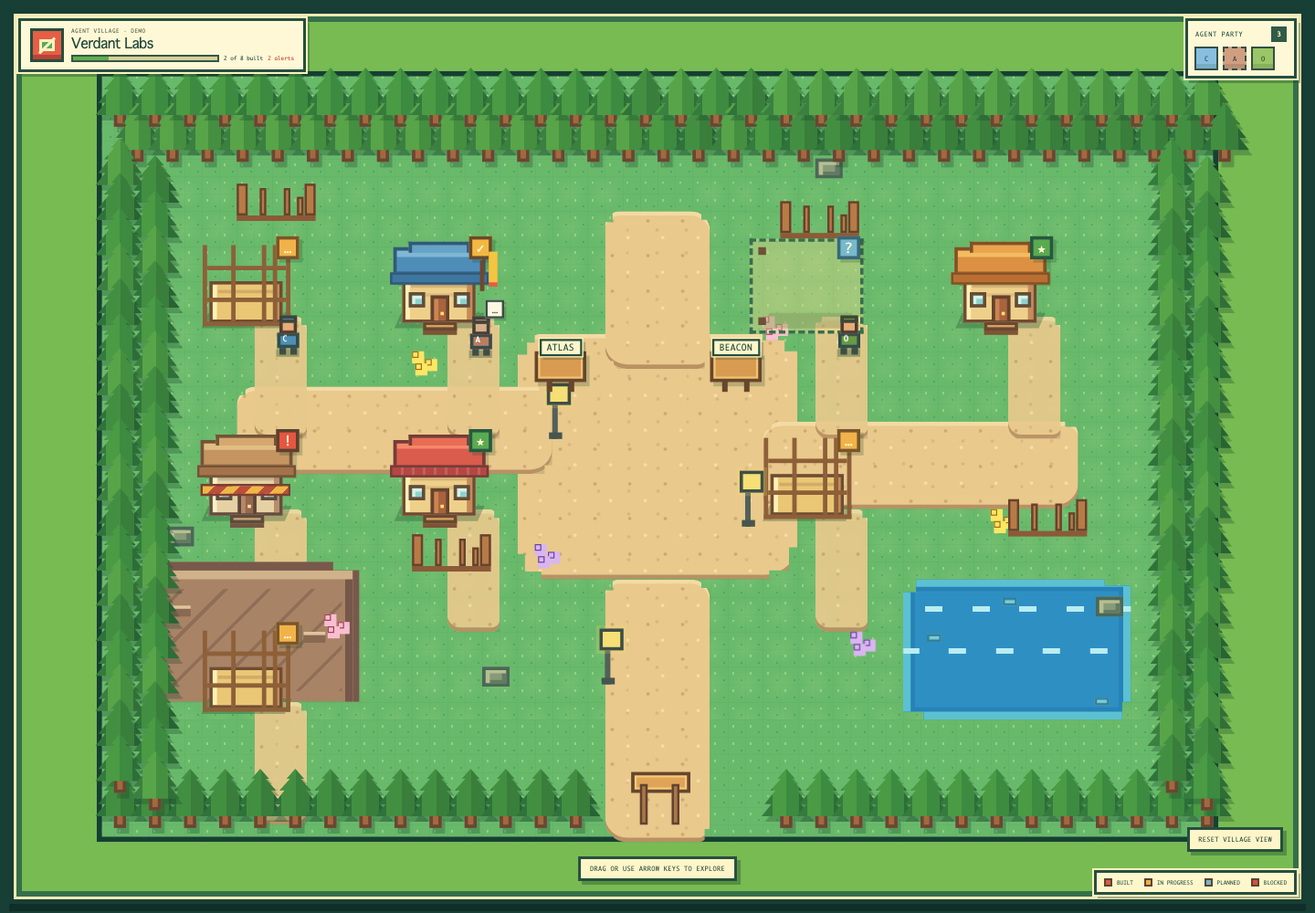
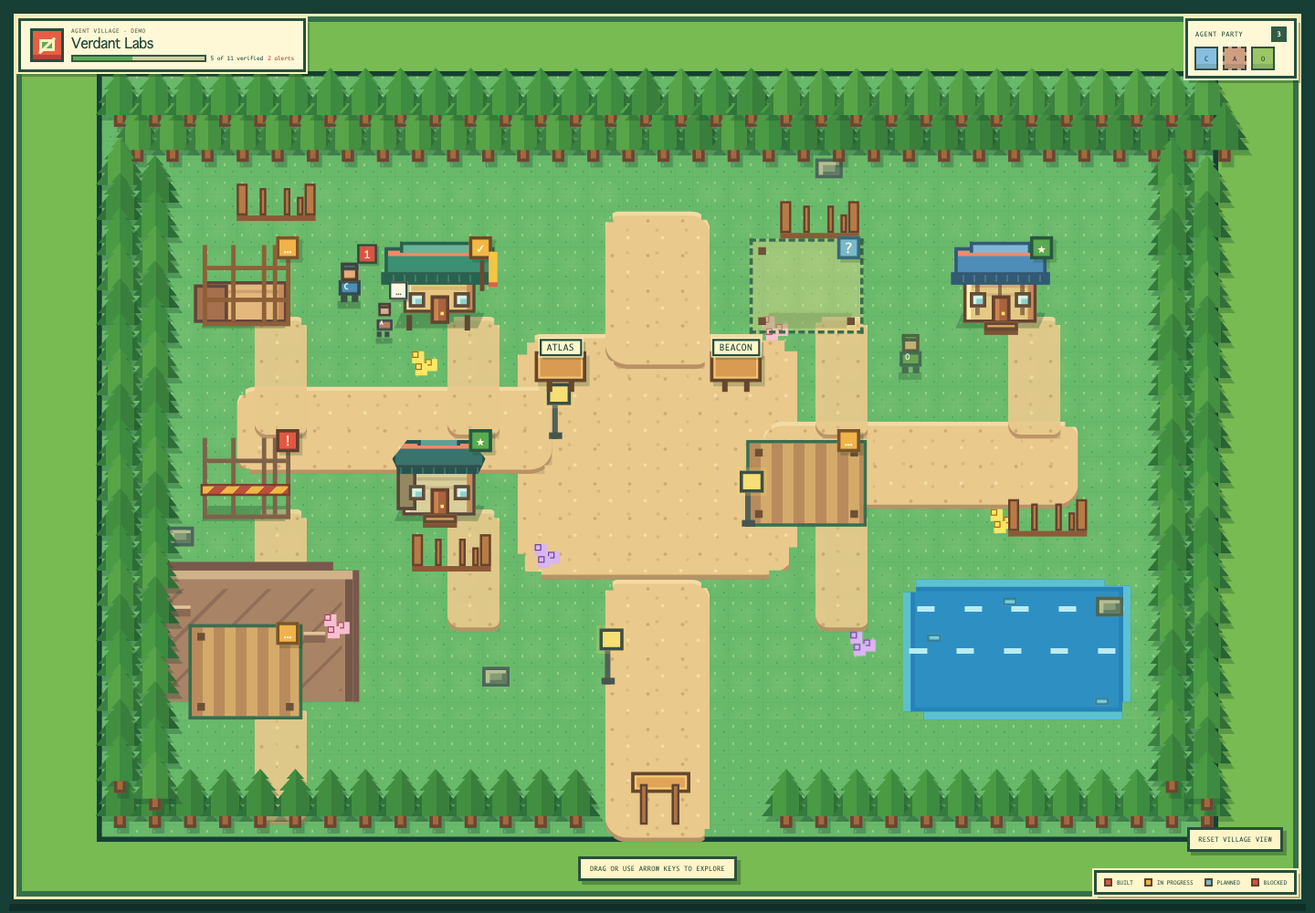
feat(village): add living construction and agent analytics
🤖 Generated with [Claude Code](https://claude.com/claude-code)

diff --git a/src/client/styles/scene.css b/src/client/styles/scene.css
@@ -76,9 +76,18 @@
 .pixel-building[data-roof-shape="stepped"] .pixel-building__roof::before{left:19px;right:19px;top:-12px;height:11px}
 .pixel-building[data-roof-shape="hipped"] .pixel-building__roof{left:14px;width:85px}.pixel-building[data-roof-shape="hipped"] .pixel-building__roof::before{left:20px;right:20px}
 .pixel-building[data-roof-shape="stilt"] .pixel-building__wall{top:37px;height:40px}.pixel-building[data-roof-shape="stilt"] .pixel-building__porch{top:76px}.pixel-building[data-roof-shape="stilt"] .pixel-building__body::after{content:"";position:absolute;left:27px;right:27px;top:79px;height:14px;border-left:5px solid var(--building-trim);border-right:5px solid var(--building-trim)}
+.pixel-building[data-family="timber_north"] .pixel-building__wall::after{content:"";position:absolute;inset:4px 8px;border-left:4px solid var(--building-trim);border-right:4px solid var(--building-trim);background:linear-gradient(90deg,transparent 46%,var(--building-trim) 46% 54%,transparent 54%);opacity:.65}
+.pixel-building[data-family="courtyard_sun"] .pixel-building__wall{left:12px;width:88px;height:40px}.pixel-building[data-family="courtyard_sun"] .pixel-building__wall::after{content:"";position:absolute;left:21px;top:13px;width:37px;height:21px;border:4px solid var(--building-trim);background:#76bbb1}.pixel-building[data-family="courtyard_sun"] .pixel-building__plot{inset:17px 1px 4px}
+.pixel-building[data-family="townhouse_brick"] .pixel-building__wall{left:29px;top:31px;width:56px;height:60px;background-image:repeating-linear-gradient(0deg,transparent 0 8px,rgba(98,52,45,.22) 8px 10px)}.pixel-building[data-family="townhouse_brick"] .pixel-building__roof{left:23px;top:8px;width:68px}.pixel-building[data-family="townhouse_brick"] .pixel-building__plot{inset:7px 22px 4px}
+.pixel-building[data-family="earth_courtyard"] .pixel-building__wall{left:13px;width:86px}.pixel-building[data-family="earth_courtyard"] .pixel-building__roof{left:11px;width:91px}.pixel-building[data-family="earth_courtyard"] .pixel-building__wall::after{content:"";position:absolute;right:5px;bottom:4px;width:19px;height:24px;border:4px solid var(--building-trim);border-bottom:0;background:var(--building-wall-light)}
+.pixel-building[data-family="mountain_adobe"] .pixel-building__wall{left:20px;width:74px}.pixel-building[data-family="mountain_adobe"] .pixel-building__wall::after{content:"";position:absolute;left:-14px;bottom:-3px;width:25px;height:29px;border:3px solid var(--building-trim);background:var(--building-wall-dark)}.pixel-building[data-family="mountain_adobe"] .pixel-building__plot{clip-path:polygon(12% 10%,80% 10%,80% 0,100% 0,100% 100%,0 100%,0 30%,12% 30%)}
+.pixel-building[data-family="tropical_stilt"] .pixel-building__roof{left:7px;width:100px}.pixel-building[data-family="tropical_stilt"] .pixel-building__wall{left:24px;width:66px}.pixel-building[data-family="tropical_stilt"] .pixel-building__plot{inset:8px 14px 3px;border-style:dotted}
+.pixel-building[data-family="woodland_tile"] .pixel-building__roof{clip-path:polygon(16% 0,84% 0,100% 55%,92% 100%,8% 100%,0 55%)}.pixel-building[data-family="woodland_tile"] .pixel-building__wall::after{content:"";position:absolute;left:-8px;bottom:2px;width:12px;height:34px;border:3px solid var(--building-trim);background:var(--building-wall-dark)}
+.pixel-building[data-family="civic_modern"] .pixel-building__wall{left:9px;width:96px;height:38px}.pixel-building[data-family="civic_modern"] .pixel-building__roof{left:20px;width:74px}.pixel-building[data-family="civic_modern"] .pixel-building__wall::after{content:"";position:absolute;left:8px;right:8px;top:12px;height:11px;background:repeating-linear-gradient(90deg,#8fd1d0 0 10px,var(--building-trim) 10px 14px)}
 
 .pixel-worker-plot{position:absolute;z-index:12;width:28px;height:38px;pointer-events:none}.pixel-worker{position:relative;display:block;width:28px;height:38px;animation:worker-idle 1.2s steps(2) infinite;image-rendering:pixelated}.pixel-worker__shadow{position:absolute;left:4px;bottom:0;width:21px;height:7px;background:rgba(27,73,41,.35)}.pixel-worker__head{position:absolute;z-index:3;left:7px;top:2px;width:16px;height:15px;border:3px solid #4f3d32;background:#e7ad76}.pixel-worker__head b{position:absolute;left:-3px;top:-5px;width:16px;height:7px;border:3px solid #3e4439;background:#5b82a5}.pixel-worker__body{position:absolute;z-index:2;left:5px;top:16px;width:20px;height:14px;border:3px solid #314e4a;background:#4f8fb6}.pixel-worker__legs{position:absolute;z-index:1;left:7px;top:29px;width:6px;height:7px;background:#3c4e45;box-shadow:10px 0 #3c4e45}.pixel-worker__badge{position:absolute;z-index:4;left:10px;top:18px;color:#fff;font:900 7px/8px Monaco,monospace}.pixel-worker__bubble{position:absolute;z-index:6;left:19px;top:-15px;padding:2px 4px;border:2px solid #315044;color:#315044;background:#fff8d5;box-shadow:2px 2px rgba(32,70,44,.25);font:900 9px/1 Monaco,monospace}.pixel-worker--claude .pixel-worker__head b,.pixel-worker--claude .pixel-worker__body{background:#d3784d}.pixel-worker--openclaw .pixel-worker__head b,.pixel-worker--openclaw .pixel-worker__body{background:#6a9a45}.pixel-worker--other .pixel-worker__head b,.pixel-worker--other .pixel-worker__body{background:#a477a7}.pixel-worker--waiting{animation:none;filter:saturate(.65)}.pixel-worker--idle,.pixel-worker--unknown{animation:none;opacity:.7}@keyframes worker-idle{50%{transform:translateY(-2px)}}
-.pixel-worker-plot{pointer-events:auto}.pixel-worker{padding:0;border:0;background:transparent;cursor:pointer}.pixel-worker:focus-visible{outline:3px solid var(--focus);outline-offset:3px}.pixel-worker--helper{transform:scale(.72);transform-origin:center bottom;animation:helper-idle 1.2s steps(2) infinite}.pixel-worker__count{position:absolute;z-index:9;left:18px;top:-17px;display:grid;place-items:center;min-width:18px;height:18px;border:2px solid #274c3e;color:#fff7cb;background:#d95443;box-shadow:2px 2px rgba(25,61,39,.28);font:900 9px/1 Monaco,monospace}.drawer-data-note{margin:0;padding:11px;border:2px dashed #9d9064;color:#68715c;font:800 9px/1.45 Monaco,monospace}@keyframes helper-idle{50%{transform:scale(.72) translateY(-2px)}}
+.pixel-worker-plot{pointer-events:auto}.pixel-worker{padding:0;border:0;background:transparent;cursor:pointer}.pixel-worker:focus-visible{outline:3px solid var(--focus);outline-offset:3px}.pixel-worker__count{position:absolute;z-index:9;top:-17px;display:grid;place-items:center;min-width:18px;height:18px;border:2px solid #274c3e;color:#fff7cb;background:#d95443;box-shadow:2px 2px rgba(25,61,39,.28);font:900 9px/1 Monaco,monospace}.drawer-data-note{margin:0;padding:11px;border:2px dashed #9d9064;color:#68715c;font:800 9px/1.45 Monaco,monospace}
+.pixel-worker-plot,.pixel-worker{width:44px;height:44px}.pixel-worker__shadow{left:12px;bottom:2px}.pixel-worker__head{left:15px}.pixel-worker__body{left:13px}.pixel-worker__legs{left:15px}.pixel-worker__badge{left:18px}.pixel-worker__bubble{left:27px}.pixel-worker__count{left:30px}.pixel-worker--helper{transform:none;animation:helper-idle 1.2s steps(2) infinite}.pixel-worker--helper .pixel-worker__shadow,.pixel-worker--helper .pixel-worker__head,.pixel-worker--helper .pixel-worker__body,.pixel-worker--helper .pixel-worker__legs,.pixel-worker--helper .pixel-worker__badge{transform:scale(.72);transform-origin:center bottom}@keyframes helper-idle{50%{transform:translateY(-2px)}}
 
 .map-reset,.map-hint { position:absolute;z-index:15;border:3px solid #264f3e;color:#244b3d;background:#fff5c8;box-shadow:4px 4px 0 rgba(24,65,39,.36);font:900 9px/1 Monaco,monospace;letter-spacing:.04em;text-transform:uppercase; }
 .map-reset { right:25px;bottom:25px;padding:9px 11px;cursor:pointer; }.map-reset:hover{background:#ffdf69}.map-reset:focus-visible{outline:4px solid var(--focus);outline-offset:3px}.map-hint{left:50%;bottom:25px;padding:7px 10px;transform:translateX(-50%);pointer-events:none}

diff --git a/src/server/activity/codexProvider.ts b/src/server/activity/codexProvider.ts
@@ -9,6 +9,8 @@ export type CodexThreadStatus =
   | { type: 'active'; activeFlags: string[] }
   | { type: 'idle' | 'notLoaded' | 'systemError' };
 
+export type CodexThreadSource = string | Record<string, unknown>;
+
 export interface CodexThreadRecord {
   id: string;
   cwd: string;
@@ -16,7 +18,7 @@ export interface CodexThreadRecord {
   preview: string;
   updatedAt: number;
   status: CodexThreadStatus;
-  source?: string;
+  source?: CodexThreadSource;
 }
 
 export interface AppServerTransport {
@@ -35,7 +37,7 @@ const threadSchema = z.object({
     z.object({ type: z.literal('active'), activeFlags: z.array(z.string()) }),
     z.object({ type: z.enum(['idle', 'notLoaded', 'systemError']) }),
   ]),
-  source: z.string().optional(),
+  source: z.union([z.string(), z.record(z.unknown())]).optional(),
 });
 const threadListSchema = z.object({ data: z.array(threadSchema) });
 
@@ -159,10 +161,31 @@ function stateFor(status: CodexThreadStatus, updatedAt: Date, now: Date): Worker
   return 'unknown';
 }
 
-function roleFor(source: string | undefined): Worker['role'] {
+function roleFor(source: CodexThreadSource | undefined): Worker['role'] {
   if (!source) return 'unknown';
-  if (source.startsWith('subAgent')) return 'helper';
+  if (typeof source === 'string') {
+    if (source === 'unknown') return 'unknown';
+    return source.startsWith('subAgent') ? 'helper' : 'lead';
+  }
+  if ('subAgent' in source) return 'helper';
   return 'lead';
+}
+
+function parentThreadIdFor(source: CodexThreadSource | undefined): string | undefined {
+  if (!source || typeof source === 'string' || !('subAgent' in source)) return undefined;
+  const visit = (value: unknown): string | undefined => {
+    if (!value || typeof value !== 'object' || Array.isArray(value)) return undefined;
+    const record = value as Record<string, unknown>;
+    if (typeof record.parent_thread_id === 'string' && record.parent_thread_id.length > 0) {
+      return record.parent_thread_id;
+    }
+    for (const child of Object.values(record)) {
+      const found = visit(child);
+      if (found) return found;
+    }
+    return undefined;
+  };
+  return visit(source.subAgent);
 }
 
 export function mapCodexThreads(
@@ -175,10 +198,12 @@ export function mapCodexThreads(
     const updatedAt = new Date(thread.updatedAt * 1000);
     if (thread.status.type !== 'active' && updatedAt.getTime() < cutoff) return [];
     const rawTitle = thread.name?.trim() || thread.preview.trim() || basename(thread.cwd) || 'Codex thread';
+    const parentThreadId = parentThreadIdFor(thread.source);
     return [{
       id: `codex:${thread.id}`,
       tool: 'codex' as const,
       role: roleFor(thread.source),
+      ...(parentThreadId ? { parentId: `codex:${parentThreadId}` } : {}),
       state: stateFor(thread.status, updatedAt, now),
       project: redactTitle(basename(thread.cwd) || 'unknown').slice(0, 80),
       title: redactTitle(rawTitle).slice(0, 120),

diff --git a/e2e/desktop.spec.ts b/e2e/desktop.spec.ts
@@ -8,12 +8,18 @@ test('desktop pixel village exposes construction, navigation and one-click conte
   await expect(scene).toBeVisible();
   await expect(scene).toHaveAttribute('data-building-count', '8');
   await expect(scene).toHaveAttribute('data-worker-count', '3');
+  await expect(scene).toHaveAttribute('data-lead-count', '1');
+  await expect(scene).toHaveAttribute('data-helper-count', '1');
   await expect(scene).toHaveAttribute('data-world-width', '64');
   await expect(scene.getByTestId('forest-frame')).toBeVisible();
   await expect(scene.getByTestId('pixel-cliff')).toBeVisible();
   await expect(scene.getByTestId('pixel-pond')).toBeVisible();
   await expect(scene.locator('[data-path-kind="square"]')).toHaveCount(1);
   await expect(scene.locator('[data-building-variant]').first()).toHaveAttribute('data-sprite-scale', 'compact');
+  const stages = await scene.locator('[data-stage]').evaluateAll((elements) => [...new Set(elements.map((element) => element.getAttribute('data-stage')))]);
+  expect(new Set(stages)).toEqual(new Set(['lot', 'foundation', 'frame', 'walls', 'roof', 'complete']));
+  const families = await scene.locator('[data-family]').evaluateAll((elements) => [...new Set(elements.map((element) => element.getAttribute('data-family')))]);
+  expect(families).toHaveLength(8);
   await expect(scene.locator('.pixel-zone-sign', { hasText: 'Atlas' })).toBeVisible();
   await expect(scene.locator('.pixel-zone-sign', { hasText: 'Beacon' })).toBeVisible();
   await expect(page.locator('[data-layout="location-plaque"]')).toBeVisible();
@@ -30,4 +36,16 @@ test('desktop pixel village exposes construction, navigation and one-click conte
   await expect(page.getByText('The western footing still needs a soil decision')).toBeVisible();
   await expect(page.getByText('Choose the footing after the soil note arrives')).toBeVisible();
   await expect(page.getByText('openclaw atlas bridge')).toBeVisible();
+  await expect(page.getByText('frame')).toBeVisible();
+  await expect(page.getByText('1 / 3 verified')).toBeVisible();
+  await page.getByRole('button', { name: 'Close details' }).click();
+
+  await scene.getByRole('button', { name: /Codex lead agent/i }).click();
+  await expect(page.getByRole('heading', { name: 'Codex on atlas contours' })).toBeVisible();
+  await expect(page.getByText('Token usage')).toBeVisible();
+  await expect(page.getByText(/Agent Village never estimates it/)).toBeVisible();
+  await page.getByRole('button', { name: 'Close agent details' }).click();
+  await expect(scene.locator('.pixel-worker__count', { hasText: '1' })).toBeVisible();
+  const personTargets = await scene.locator('.pixel-worker').evaluateAll((elements) => elements.map((element) => ({ width: element.getBoundingClientRect().width, height: element.getBoundingClientRect().height })));
+  expect(personTargets.every(({ width, height }) => width >= 44 && height >= 44)).toBe(true);
 });

diff --git a/src/server/truth/demoFixture.test.ts b/src/server/truth/demoFixture.test.ts
@@ -18,15 +18,20 @@ describe('canonical demo fixture', () => {
     const verdicts = await verifyWorkspaceEvidence(loaded.workspace, dirname(fixturePath));
     const derived = deriveWorkspace(loaded.workspace, verdicts);
     const statuses: Record<string, string> = {};
+    const stages: Record<string, string> = {};
 
     for (const project of derived.projects) {
       for (const feature of project.features) {
         for (const task of feature.tasks) {
           statuses[task.id] = task.effectiveStatus;
+          stages[task.id] = task.progress.stage;
           for (const subtask of task.subtasks) statuses[subtask.id] = subtask.effectiveStatus;
         }
       }
-      for (const task of project.tasks) statuses[task.id] = task.effectiveStatus;
+      for (const task of project.tasks) {
+        statuses[task.id] = task.effectiveStatus;
+        stages[task.id] = task.progress.stage;
+      }
     }
 
     expect(statuses).toEqual({
@@ -37,13 +42,18 @@ describe('canonical demo fixture', () => {
       'atlas-observatory-deck': 'verified',
       'atlas-bridge': 'blocked',
       'atlas-bridge-footing': 'planned',
+      'atlas-bridge-pier': 'verified',
+      'atlas-bridge-deck': 'planned',
       'atlas-library': 'verified',
-      'atlas-weather': 'in_progress',
-      'beacon-relay': 'planned',
+      'atlas-weather-site': 'in_progress',
+      'beacon-relay-hub': 'planned',
       'beacon-lens': 'verified',
       'beacon-lens-frame': 'verified',
       'beacon-notes': 'in_progress',
     });
+    expect(new Set(Object.values(stages))).toEqual(new Set([
+      'lot', 'foundation', 'frame', 'walls', 'roof', 'complete',
+    ]));
   });
 
   it('passes the public hygiene gate', () => {

diff --git a/src/client/scene2d/VillageMap2D.test.tsx b/src/client/scene2d/VillageMap2D.test.tsx
@@ -22,7 +22,7 @@ const village: DerivedWorkspace = {
 const activity: ActivitySnapshot = {
   status: 'live', fetchedAt: '2026-09-01T12:00:00.000Z', workers: [
     { id: 'codex', tool: 'codex', role: 'lead', state: 'working', title: 'Build contours', attachedTaskId: 'contours', lastActivityAt: '2026-09-01T12:00:00.000Z' },
-    { id: 'claude', tool: 'claude', role: 'helper', parentId: 'codex', state: 'waiting', title: 'Review map', attachedTaskId: 'contours', lastActivityAt: '2026-09-01T12:00:00.000Z' },
+    { id: 'claude', tool: 'claude', role: 'helper', parentId: 'codex', state: 'waiting', title: 'Review map', attachedTaskId: 'library', lastActivityAt: '2026-09-01T12:00:00.000Z' },
   ],
 };
 
@@ -48,6 +48,14 @@ describe('VillageMap2D', () => {
       expect.objectContaining({ id: 'codex' }),
       expect.any(HTMLButtonElement),
     );
+  });
+
+  it('keeps a helper beside its lead even when its own task mapping differs', () => {
+    render(<VillageMap2D village={village} activity={activity} onSelect={() => undefined} />);
+    const leadPlot = screen.getByRole('button', { name: /Codex lead agent/ }).parentElement as HTMLElement;
+    const helperPlot = screen.getByRole('button', { name: /Claude helper agent/ }).parentElement as HTMLElement;
+    expect(Math.abs(Number.parseInt(helperPlot.style.left) - Number.parseInt(leadPlot.style.left))).toBeLessThanOrEqual(32);
+    expect(Math.abs(Number.parseInt(helperPlot.style.top) - Number.parseInt(leadPlot.style.top))).toBeLessThanOrEqual(32);
   });
 
   it('never invents workers when activity is absent', () => {

diff --git a/src/client/scene2d/PixelWorker.tsx b/src/client/scene2d/PixelWorker.tsx
@@ -18,13 +18,16 @@ interface PixelWorkerProps {
 export function PixelWorker({ worker, helperCount = 0, onSelect }: PixelWorkerProps) {
   const title = worker.title ?? 'Untitled conversation';
   const role = worker.role ?? 'unknown';
+  const helperLabel = helperCount > 0
+    ? `, ${helperCount} ${helperCount === 1 ? 'helper agent' : 'helper agents'}`
+    : '';
   return (
     <button
       type="button"
       className={`pixel-worker pixel-worker--${worker.tool} pixel-worker--${worker.state} pixel-worker--${role}`}
       data-worker-id={worker.id}
       data-sprite-origin="original"
-      aria-label={`${TOOL_LABELS[worker.tool]} ${role} agent, ${worker.state}, ${title}`}
+      aria-label={`${TOOL_LABELS[worker.tool]} ${role} agent, ${worker.state}, ${title}${helperLabel}`}
       onClick={(event) => onSelect?.(worker, event.currentTarget)}
     >
       <i className="pixel-worker__shadow" aria-hidden="true" />
@@ -33,7 +36,7 @@ export function PixelWorker({ worker, helperCount = 0, onSelect }: PixelWorkerPr
       <i className="pixel-worker__legs" aria-hidden="true" />
       <b className="pixel-worker__badge" aria-hidden="true">{TOOL_MARKS[worker.tool]}</b>
       {worker.state === 'waiting' && <em className="pixel-worker__bubble" data-testid="worker-bubble">…</em>}
-      {helperCount > 0 && <span className="pixel-worker__count" aria-label={`${helperCount} helper agents`}>{helperCount}</span>}
+      {helperCount > 0 && <span className="pixel-worker__count" aria-hidden="true">{helperCount}</span>}
     </button>
   );
 }

diff --git a/src/client/scene2d/VillageMap2D.tsx b/src/client/scene2d/VillageMap2D.tsx
@@ -40,6 +40,7 @@ export function VillageMap2D({ village, activity, onSelect, onSelectWorker }: Vi
     }
     return counts;
   }, [workers]);
+  const workersById = useMemo(() => new Map(workers.map((worker) => [worker.id, worker])), [workers]);
 
   const moveCamera = (x: number, y: number) => setCamera({ x: clamp(x, maxX), y: clamp(y, maxY) });
   const onKeyDown = (event: KeyboardEvent<HTMLElement>) => {
@@ -107,7 +108,9 @@ export function VillageMap2D({ village, activity, onSelect, onSelectWorker }: Vi
           </span>;
         })}
         {workers.map((worker, index) => {
-          const placement = worker.attachedTaskId ? placements.get(worker.attachedTaskId) : undefined;
+          const parent = worker.role === 'helper' && worker.parentId ? workersById.get(worker.parentId) : undefined;
+          const attachedTaskId = parent?.attachedTaskId ?? worker.attachedTaskId;
+          const placement = attachedTaskId ? placements.get(attachedTaskId) : undefined;
           const x = placement ? placement.x + 8 + (index % 2) * 2 : layout.entrance.x + index * 2;
           const y = placement ? placement.y + 2 + (index % 3) * 2 : layout.entrance.y;
           return <span key={worker.id} className="pixel-worker-plot" style={{ left: x * TILE_SIZE, top: y * TILE_SIZE }}><PixelWorker worker={worker} helperCount={helpersByParent.get(worker.id)} onSelect={onSelectWorker} /></span>;

diff --git a/src/server/activity/amcAdapter.ts b/src/server/activity/amcAdapter.ts
@@ -1,5 +1,5 @@
 import { z } from 'zod';
-import type { ActivitySnapshot, Worker, WorkerState, WorkerTool } from '../../shared/activity.js';
+import type { ActivitySnapshot, Worker, WorkerRole, WorkerState, WorkerTool } from '../../shared/activity.js';
 import type { ActivityMapping } from '../../shared/schema.js';
 import { mapWorkers } from './mapWorkers.js';
 import { redactTitle } from './redact.js';
@@ -12,6 +12,8 @@ const sourceSessionSchema = z.object({
   state: z.string().min(1),
   title: z.string().optional(),
   lastActivityAt: z.string().refine((value) => !Number.isNaN(Date.parse(value))),
+  role: z.enum(['lead', 'helper', 'unknown']).optional(),
+  parentId: z.string().regex(/^[A-Za-z0-9._:-]{1,80}$/).optional(),
 });
 
 const dashboardSchema = z.object({ sessions: z.array(sourceSessionSchema) });
@@ -45,7 +47,8 @@ function sanitizeSession(session: z.infer<typeof sourceSessionSchema>): Worker {
   return {
     id: session.id,
     tool: normalizeTool(session.tool.toLowerCase()),
-    role: 'unknown',
+    role: (session.role ?? 'unknown') as WorkerRole,
+    ...(session.parentId === undefined ? {} : { parentId: session.parentId }),
     state: normalizeState(session.state.toLowerCase()),
     lastActivityAt: new Date(session.lastActivityAt).toISOString(),
     ...(title === undefined ? {} : { title }),

diff --git a/src/server/activity/amcAdapter.test.ts b/src/server/activity/amcAdapter.test.ts
@@ -49,18 +49,20 @@ describe('fetchAmcActivity', () => {
       'beacon-relay',
     ]);
     expect(snapshot.workers.map((worker) => worker.tool)).toEqual(['codex', 'claude', 'openclaw']);
+    expect(snapshot.workers.map((worker) => worker.role)).toEqual(['lead', 'helper', 'unknown']);
+    expect(snapshot.workers[1]?.parentId).toBe('worker-c-atlas');
 
     const encoded = JSON.stringify(snapshot);
     for (const forbidden of ['message', 'messages', 'tokens', 'tokenCount', 'cost', 'cwd', 'credential', '/tmp/']) {
       expect(encoded).not.toContain(forbidden);
     }
     expect(Object.keys(snapshot).sort()).toEqual(['fetchedAt', 'status', 'workers']);
-    for (const worker of snapshot.workers) {
-      expect(Object.keys(worker).sort()).toEqual([
-        'attachedTaskId', 'id', 'lastActivityAt', 'role', 'state', 'title', 'tool',
-      ]);
-      expect(worker.role).toBe('unknown');
-    }
+    expect(Object.keys(snapshot.workers[0]!).sort()).toEqual([
+      'attachedTaskId', 'id', 'lastActivityAt', 'role', 'state', 'title', 'tool',
+    ]);
+    expect(Object.keys(snapshot.workers[1]!).sort()).toEqual([
+      'attachedTaskId', 'id', 'lastActivityAt', 'parentId', 'role', 'state', 'title', 'tool',
+    ]);
   });
 
   it('returns a live empty snapshot for an empty dashboard', async () => {

diff --git a/src/client/drawer/WorkerDrawer.tsx b/src/client/drawer/WorkerDrawer.tsx
@@ -3,6 +3,7 @@ import type { Worker } from '../../shared/activity.js';
 
 interface WorkerDrawerProps {
   worker: Worker;
+  helperCount?: number;
   trigger: HTMLButtonElement;
   onClose: () => void;
 }
@@ -13,7 +14,7 @@ const ROLE_LABELS = {
   unknown: 'Agent role unavailable',
 } as const;
 
-export function WorkerDrawer({ worker, trigger, onClose }: WorkerDrawerProps) {
+export function WorkerDrawer({ worker, helperCount = 0, trigger, onClose }: WorkerDrawerProps) {
   const closeRef = useRef<HTMLButtonElement>(null);
   useEffect(() => {
     closeRef.current?.focus();
@@ -34,6 +35,7 @@ export function WorkerDrawer({ worker, trigger, onClose }: WorkerDrawerProps) {
           <dl className="drawer-facts">
             <div><dt>Role</dt><dd>{ROLE_LABELS[role]}</dd></div>
             <div><dt>State</dt><dd>{worker.state}</dd></div>
+            <div><dt>Helpers</dt><dd>{helperCount} {helperCount === 1 ? 'helper' : 'helpers'}</dd></div>
             <div><dt>Project</dt><dd>{worker.project ?? 'Unavailable'}</dd></div>
             <div><dt>Task link</dt><dd>{worker.attachedTaskId ?? 'Unavailable'}</dd></div>
             <div><dt>Observed since</dt><dd>{worker.firstSeenAt ?? 'Unavailable'}</dd></div>

diff --git a/src/client/scene2d/PixelWorker.test.tsx b/src/client/scene2d/PixelWorker.test.tsx
@@ -25,13 +25,17 @@ describe('PixelWorker', () => {
     expect(screen.queryByText('Pokémon')).toBeNull();
   });
 
-  it('renders helpers as smaller people, shows their group count and stays clickable', () => {
+  it('renders helpers as smaller people and keeps them clickable', () => {
     const onSelect = vi.fn();
-    render(<PixelWorker worker={worker({ role: 'helper' })} helperCount={3} onSelect={onSelect} />);
+    render(<PixelWorker worker={worker({ role: 'helper' })} onSelect={onSelect} />);
     const person = screen.getByRole('button', { name: 'Codex helper agent, working, Build contours' });
     expect(person.className).toContain('pixel-worker--helper');
-    expect(screen.getByLabelText('3 helper agents')).toBeTruthy();
     fireEvent.click(person);
     expect(onSelect).toHaveBeenCalledWith(expect.objectContaining({ id: 'worker' }), person);
+  });
+
+  it('includes the helper count in the lead button accessible name', () => {
+    render(<PixelWorker worker={worker()} helperCount={3} />);
+    expect(screen.getByRole('button', { name: 'Codex lead agent, working, Build contours, 3 helper agents' })).toBeTruthy();
   });
 });

diff --git a/src/client/drawer/WorkerDrawer.test.tsx b/src/client/drawer/WorkerDrawer.test.tsx
@@ -18,7 +18,7 @@ const worker: Worker = {
 function Harness() {
   const [open, setOpen] = useState(false);
   const trigger = useRef<HTMLButtonElement>(null);
-  return <><button ref={trigger} onClick={() => setOpen(true)}>Open agent</button>{open && trigger.current && <WorkerDrawer worker={worker} trigger={trigger.current} onClose={() => setOpen(false)} />}</>;
+  return <><button ref={trigger} onClick={() => setOpen(true)}>Open agent</button>{open && trigger.current && <WorkerDrawer worker={worker} helperCount={2} trigger={trigger.current} onClose={() => setOpen(false)} />}</>;
 }
 
 describe('WorkerDrawer', () => {
@@ -29,6 +29,7 @@ describe('WorkerDrawer', () => {
     expect(screen.getByRole('heading', { name: 'Build the living village' })).toBeTruthy();
     expect(screen.getByText('Lead agent')).toBeTruthy();
     expect(screen.getByText('agent-village')).toBeTruthy();
+    expect(screen.getByText('2 helpers')).toBeTruthy();
     expect(screen.getByText('2026-09-01T11:00:00.000Z')).toBeTruthy();
     expect(screen.getAllByText('Unavailable')).toHaveLength(3);
     fireEvent.keyDown(document, { key: 'Escape' });
